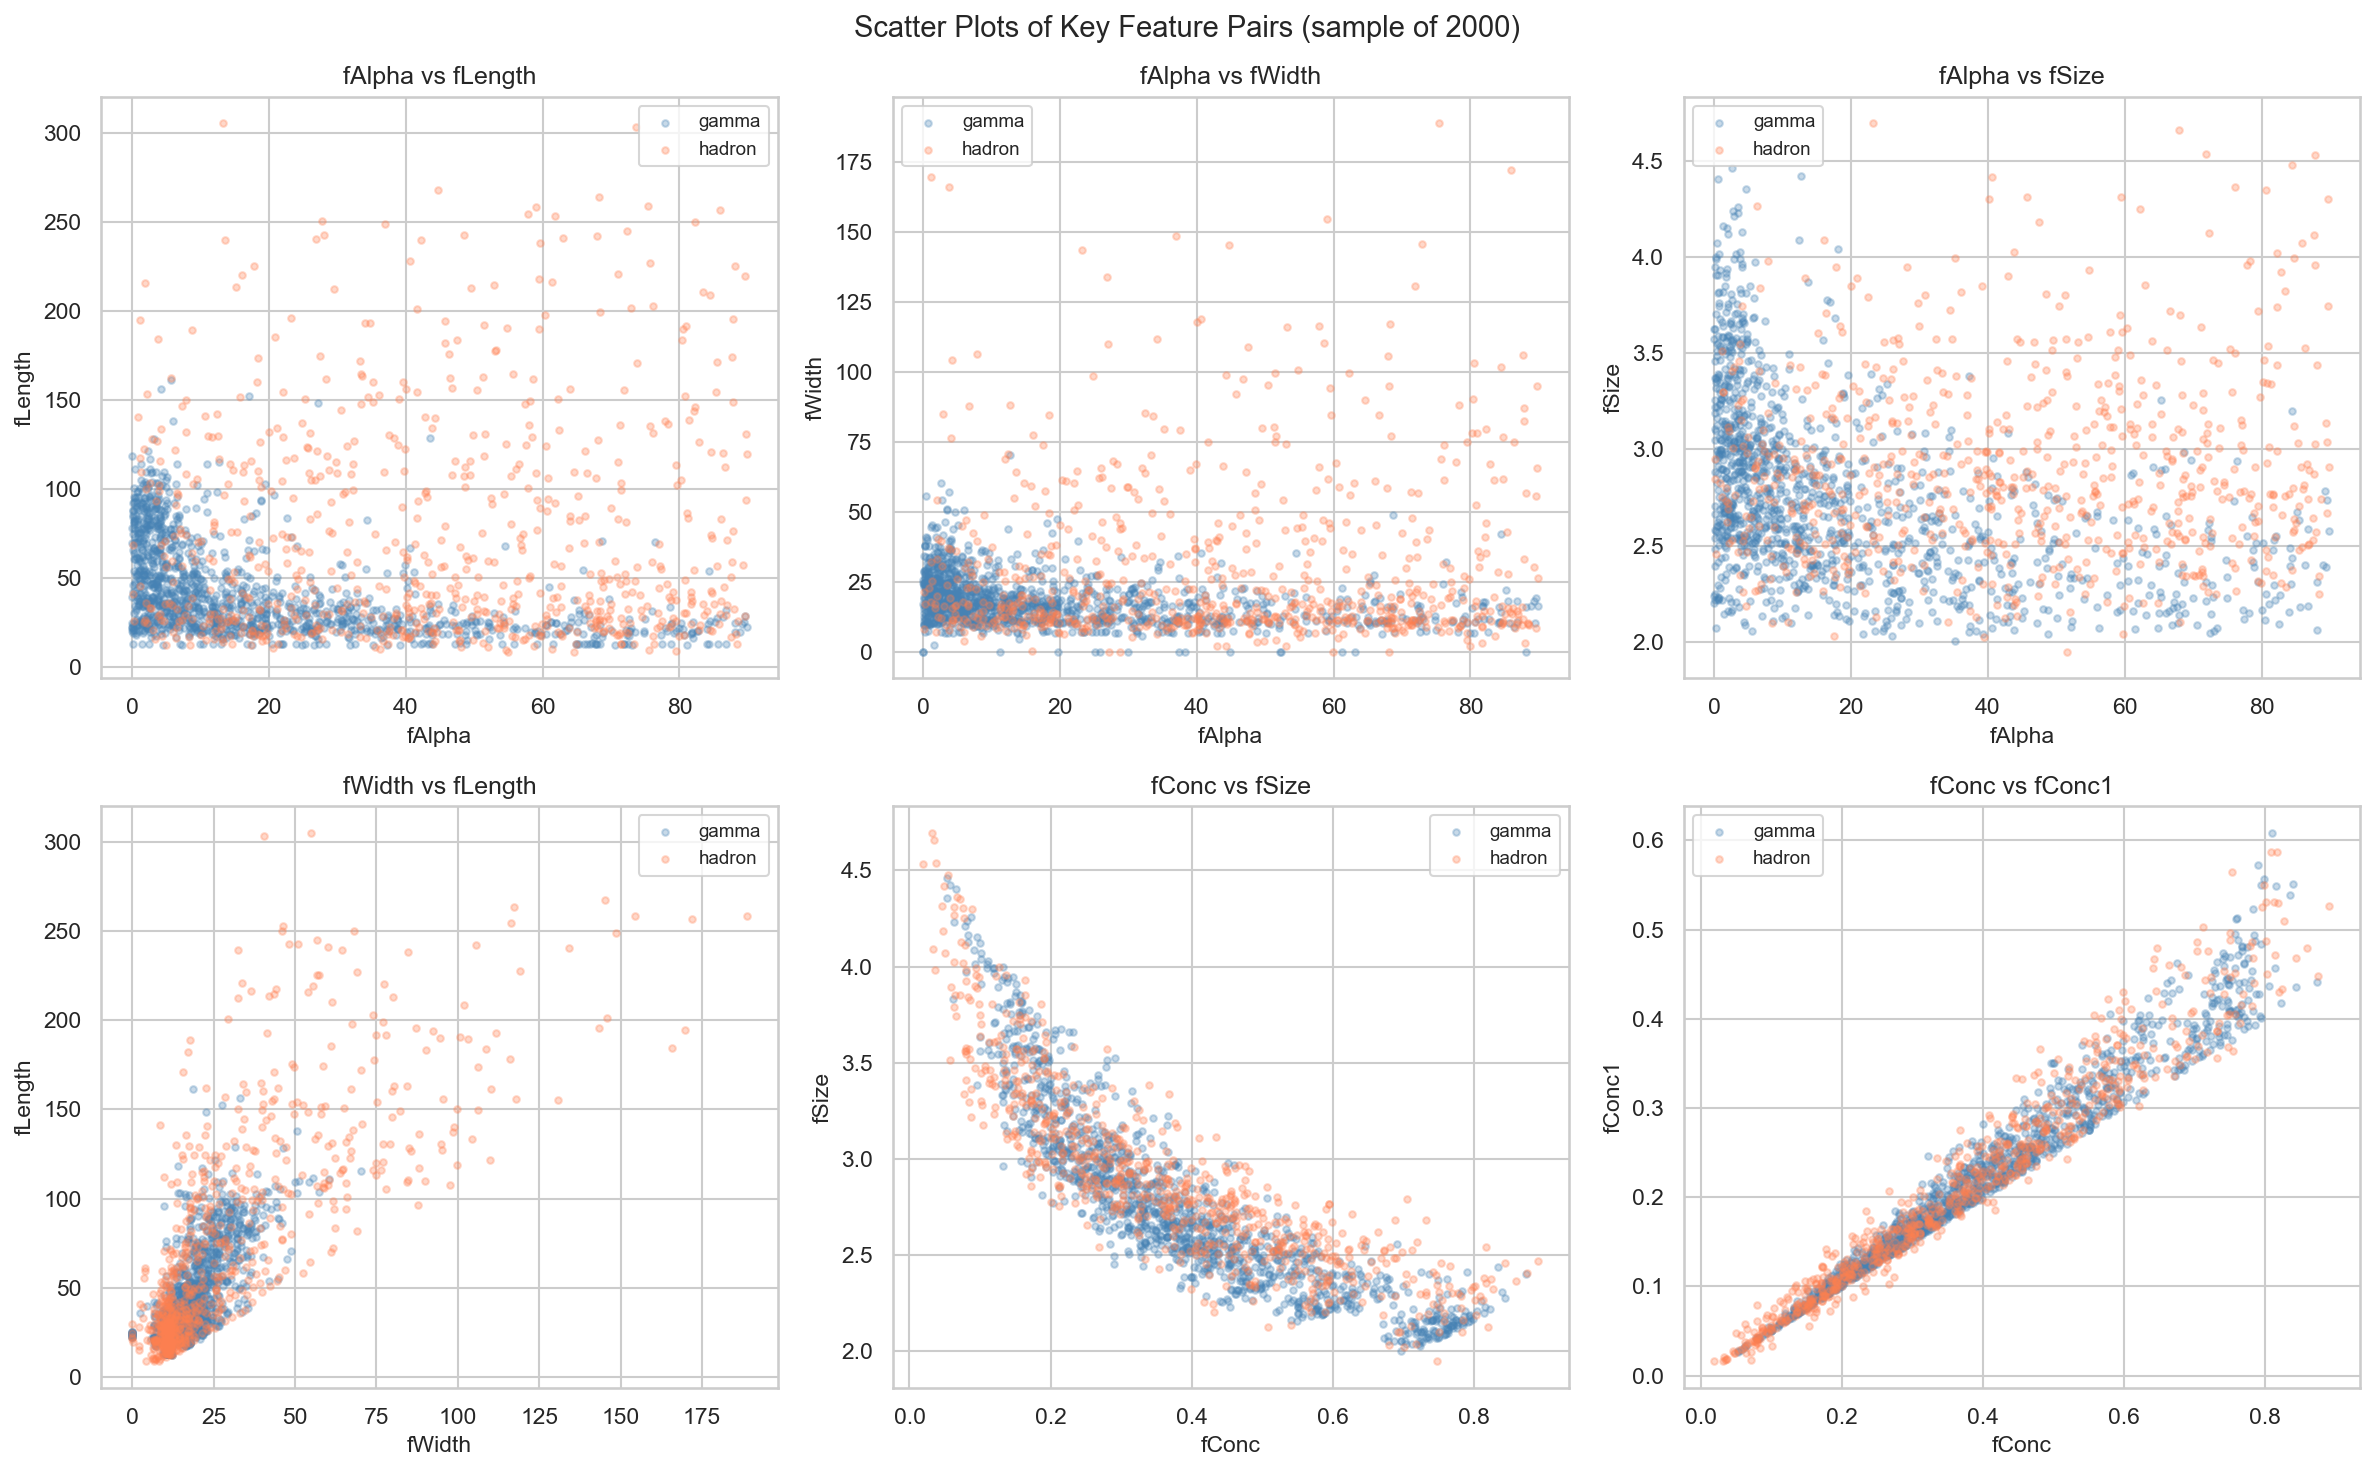
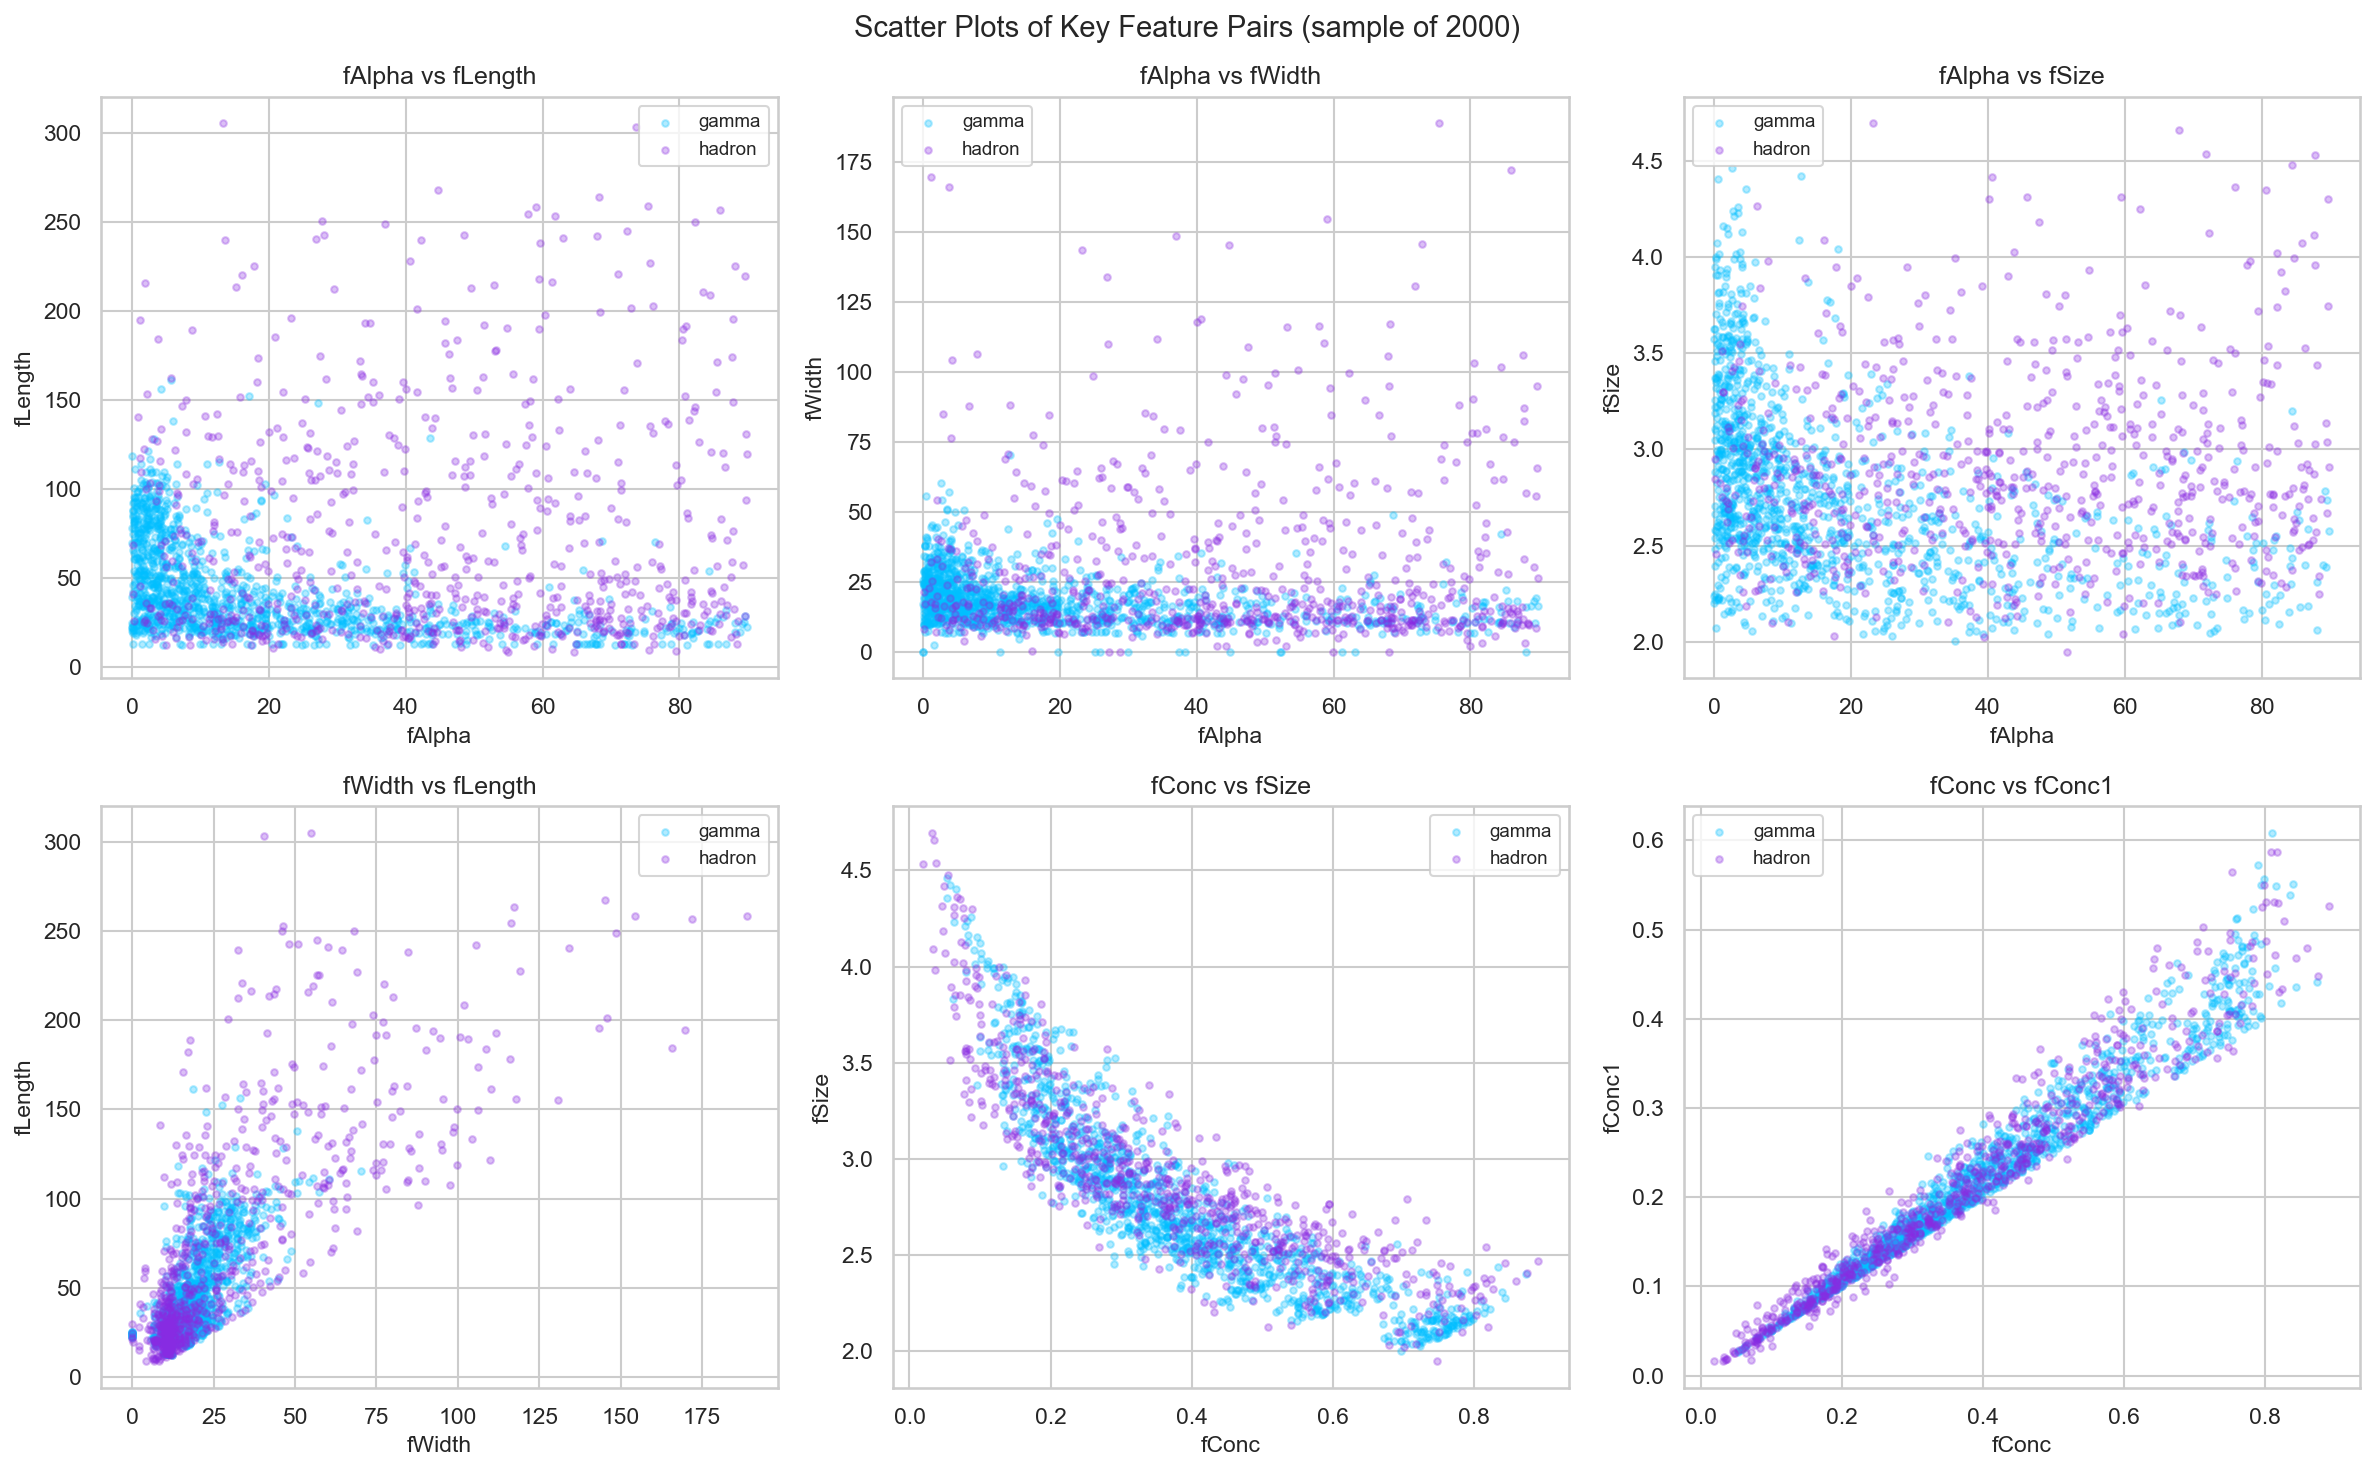
changed colors

diff --git a/01_eda.py b/01_eda.py
@@ -115,7 +115,7 @@ fig, ax = plt.subplots(figsize=(6, 4))
 class_counts.plot(
     kind="bar",
     ax=ax,
-    color=["steelblue", "coral"],
+    color=["deepskyblue", "blueviolet"],
     edgecolor="black"
 )
 
@@ -194,7 +194,7 @@ for i, col in enumerate(feature_cols):      # go through everything that is not 
         df[df["class"] == "g"][col],
         bins=50,
         alpha=0.85,          # alpha controls transparency (0=invisible, 1=solid)
-        color="steelblue",
+        color="deepskyblue",
         label="gamma (g)",
         density=True        # density=True normalizes so both classes are comparable
                             # even though they have different numbers of samples
@@ -205,7 +205,7 @@ for i, col in enumerate(feature_cols):      # go through everything that is not 
         df[df["class"] == "h"][col],
         bins=50,
         alpha=0.6,
-        color="coral",
+        color="blueviolet",
         label="hadron (h)",
         density=True
     )
@@ -239,9 +239,9 @@ fig, axes = plt.subplots(nrows=1, ncols=2, figsize=(11, 4.5))
 
 for ax, col in zip(axes, slide_features):
     ax.hist(df[df["class"] == "g"][col], bins=40, alpha=0.85,
-             color="steelblue", label="gamma (g)", density=True)
+             color="deepskyblue", label="gamma (g)", density=True)
     ax.hist(df[df["class"] == "h"][col], bins=40, alpha=0.6,
-             color="coral", label="hadron (h)", density=True)
+             color="blueviolet", label="hadron (h)", density=True)
     ax.set_title(col, fontsize=13)
     ax.set_xlabel("Value", fontsize=11)
     ax.set_ylabel("Density", fontsize=11)
@@ -302,7 +302,7 @@ axes = axes.flatten()
 for i, (x_col, y_col) in enumerate(pairs_to_plot):
     ax = axes[i]
 
-    for cls, color, label in [("g", "steelblue", "gamma"), ("h", "coral", "hadron")]:
+    for cls, color, label in [("g", "deepskyblue", "gamma"), ("h", "blueviolet", "hadron")]:
         subset = sample[sample["class"] == cls]
         ax.scatter(
             subset[x_col],
